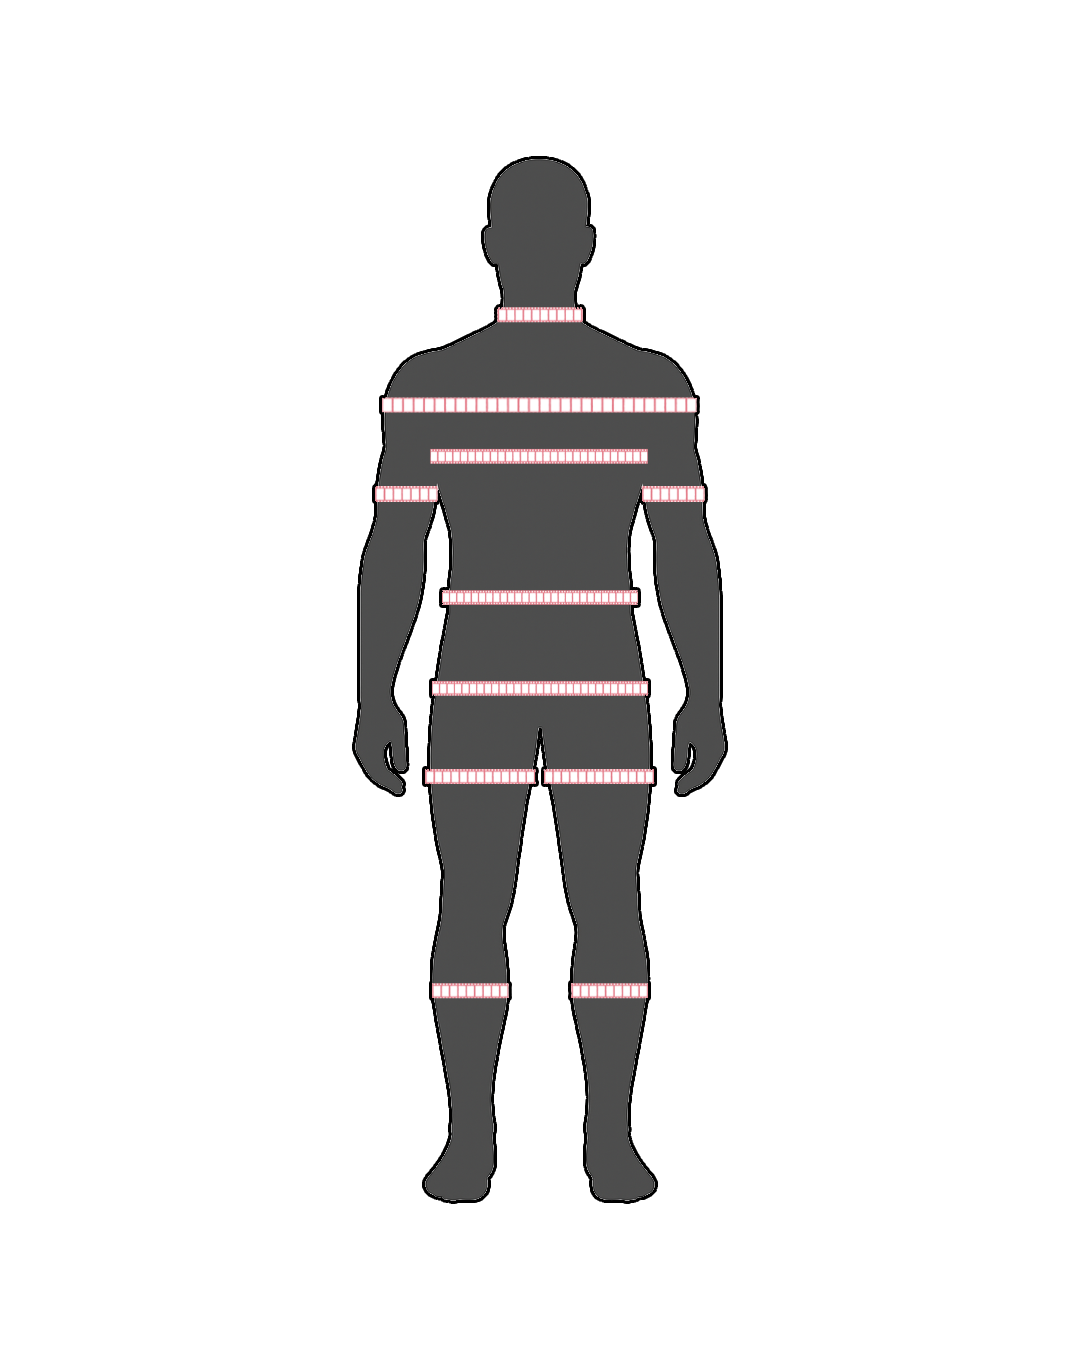
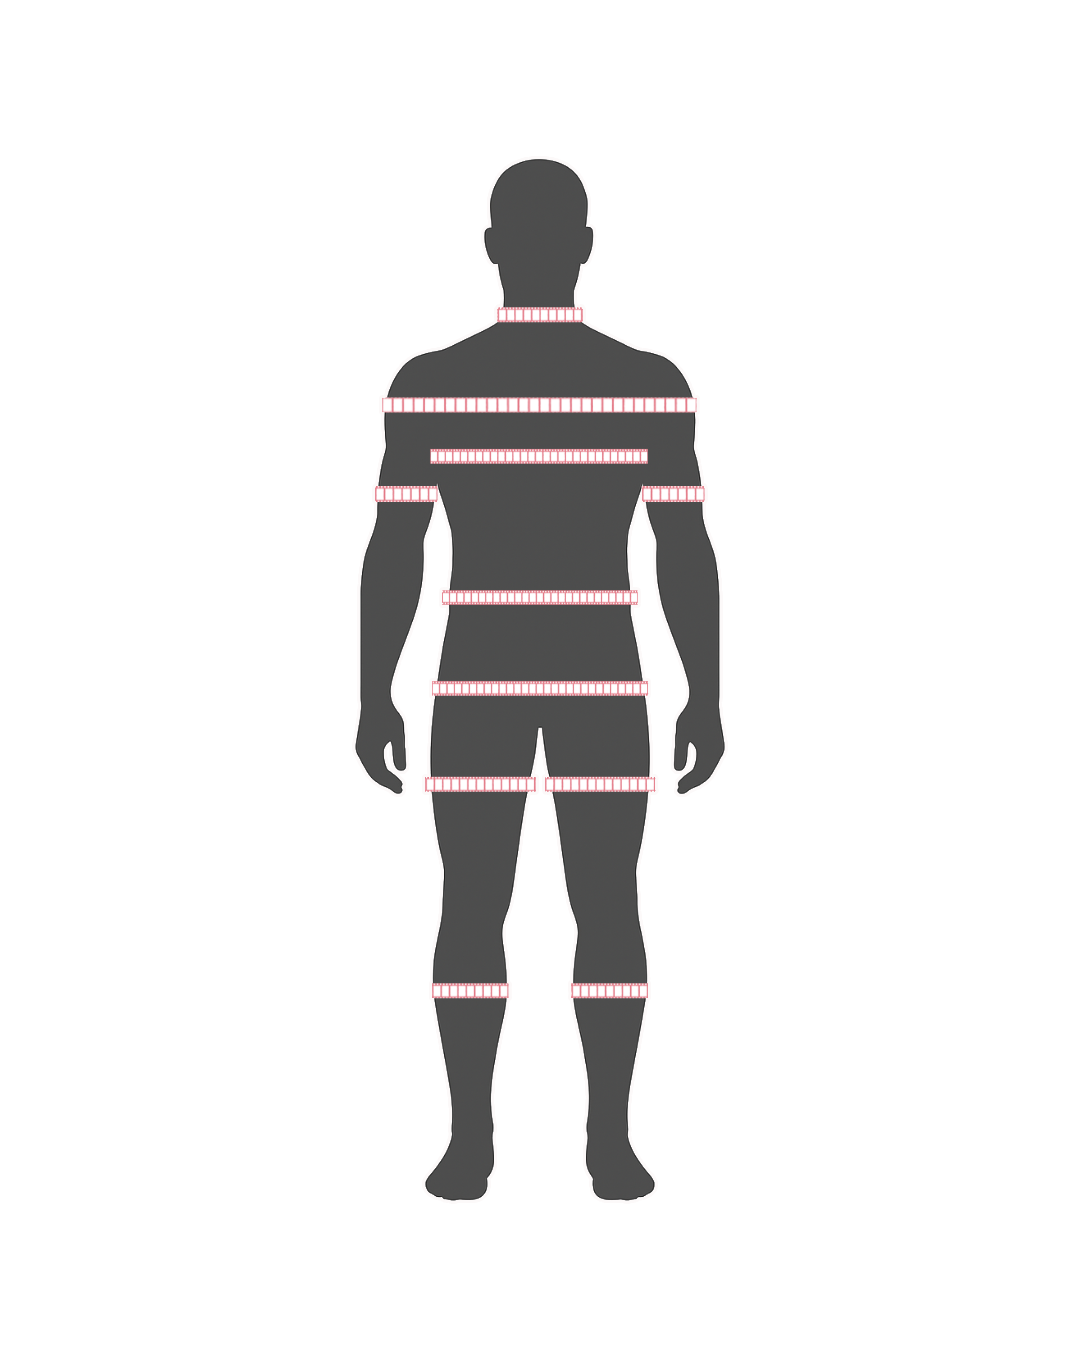
corpo: avatares grandes ocupando todo o espaço + imagens com contorno branco (v454)
Medidas fixas estreitas (118px), avatar toma o resto (bem maior). Imagens
atualizadas (contorno branco).

diff --git a/css/styles.css b/css/styles.css
@@ -590,20 +590,20 @@ html, body {
 .cp-reg-fotos { display: flex; gap: 8px; margin-top: 10px; }
 .cp-reg-fotos img { width: 33%; aspect-ratio: 3/4; object-fit: cover; border-radius: 8px; background: var(--bg); }
 
-/* formulário — 2 colunas: medidas (esq, estreitas) + avatares GRANDES (dir) */
-.cp-form-corpo { display: flex; gap: 8px; align-items: stretch; }
-.cp-medidas { flex: 1 1 0; min-width: 0; display: flex; flex-direction: column; gap: 6px; }
+/* formulário — 2 colunas: medidas estreitas (fixas) + avatares ocupando TODO o
+   resto do espaço (bem grandes). */
+.cp-form-corpo { display: flex; gap: 8px; align-items: flex-start; }
+.cp-medidas { flex: 0 0 118px; min-width: 0; display: flex; flex-direction: column; gap: 6px; }
 .cp-campo { display: flex; flex-direction: column; align-items: stretch; gap: 2px; }
 .cp-campo-lbl { font-size: 12px; color: var(--text); font-weight: 600; }
 .cp-campo-lbl small { font-weight: 400; color: var(--muted); }
 .cp-campo-in { display: flex; align-items: center; gap: 5px; background: var(--card-2);
   border: 1px solid var(--border); border-radius: 9px; padding: 6px 9px; }
 .cp-campo-in input { font-size: 14px; }
-/* avatares: coluna estica pela altura das medidas; cada figura ocupa metade e a
-   imagem enche o máximo SEM passar da última medida (panturrilha). */
-.cp-avatar { flex: 0 0 200px; display: flex; flex-direction: column; gap: 2px; color: var(--text); }
-.cp-fig { flex: 1; min-height: 0; display: flex; align-items: center; justify-content: center; }
-.cp-fig img, .cp-fig svg { max-height: 100%; max-width: 100%; width: auto; height: auto; object-fit: contain; display: block; }
+/* avatares grandes: tomam todo o espaço restante; imagem = largura da coluna */
+.cp-avatar { flex: 1 1 auto; min-width: 0; display: flex; flex-direction: column; gap: 2px; color: var(--text); }
+.cp-fig { display: flex; flex-direction: column; align-items: center; }
+.cp-fig img, .cp-fig svg { width: 100%; height: auto; display: block; }
 .cp-fig-lbl { font-size: 10px; font-weight: 700; color: var(--muted); margin-top: 2px; }
 .cp-campo-in:focus-within { border-color: var(--accent); }
 .cp-campo-in input { flex: 1; min-width: 0; background: none; border: none; outline: none;

diff --git a/index.html b/index.html
@@ -10,7 +10,7 @@
 <!-- Force-update: unregister → re-register → SW ready → reload -->
 <script>
   (function() {
-    var V = '453';
+    var V = '454';
     window.__BUILD = V;   // exibido em Ajustes: encerra a dúvida de 'a atualização chegou?'
     if (localStorage.getItem('_visao_build') !== V) {
       localStorage.setItem('_visao_build', V);
@@ -44,7 +44,7 @@
 <meta name="apple-mobile-web-app-status-bar-style" content="black-translucent">
 <meta name="apple-mobile-web-app-title" content="Falcon">
 <meta name="mobile-web-app-capable" content="yes">
-<link rel="stylesheet" href="css/styles.css?v=20260730g">
+<link rel="stylesheet" href="css/styles.css?v=20260730h">
 <style>.onboarding-logo,.ajustes-avatar{background:#4f46e5!important}</style>
 <script>
   // Aplica tema ANTES de qualquer render — evita flash de tema errado

diff --git a/sw.js b/sw.js
@@ -6,7 +6,7 @@
 //   - Firebase/CDN → sempre rede (não cacheia)
 // ═══════════════════════════════════════════════════════════════
 
-const CACHE_NAME = 'visao-v453';
+const CACHE_NAME = 'visao-v454';
 
 // Estado de mute — atualizado via postMessage do app principal
 let _muted = false;
